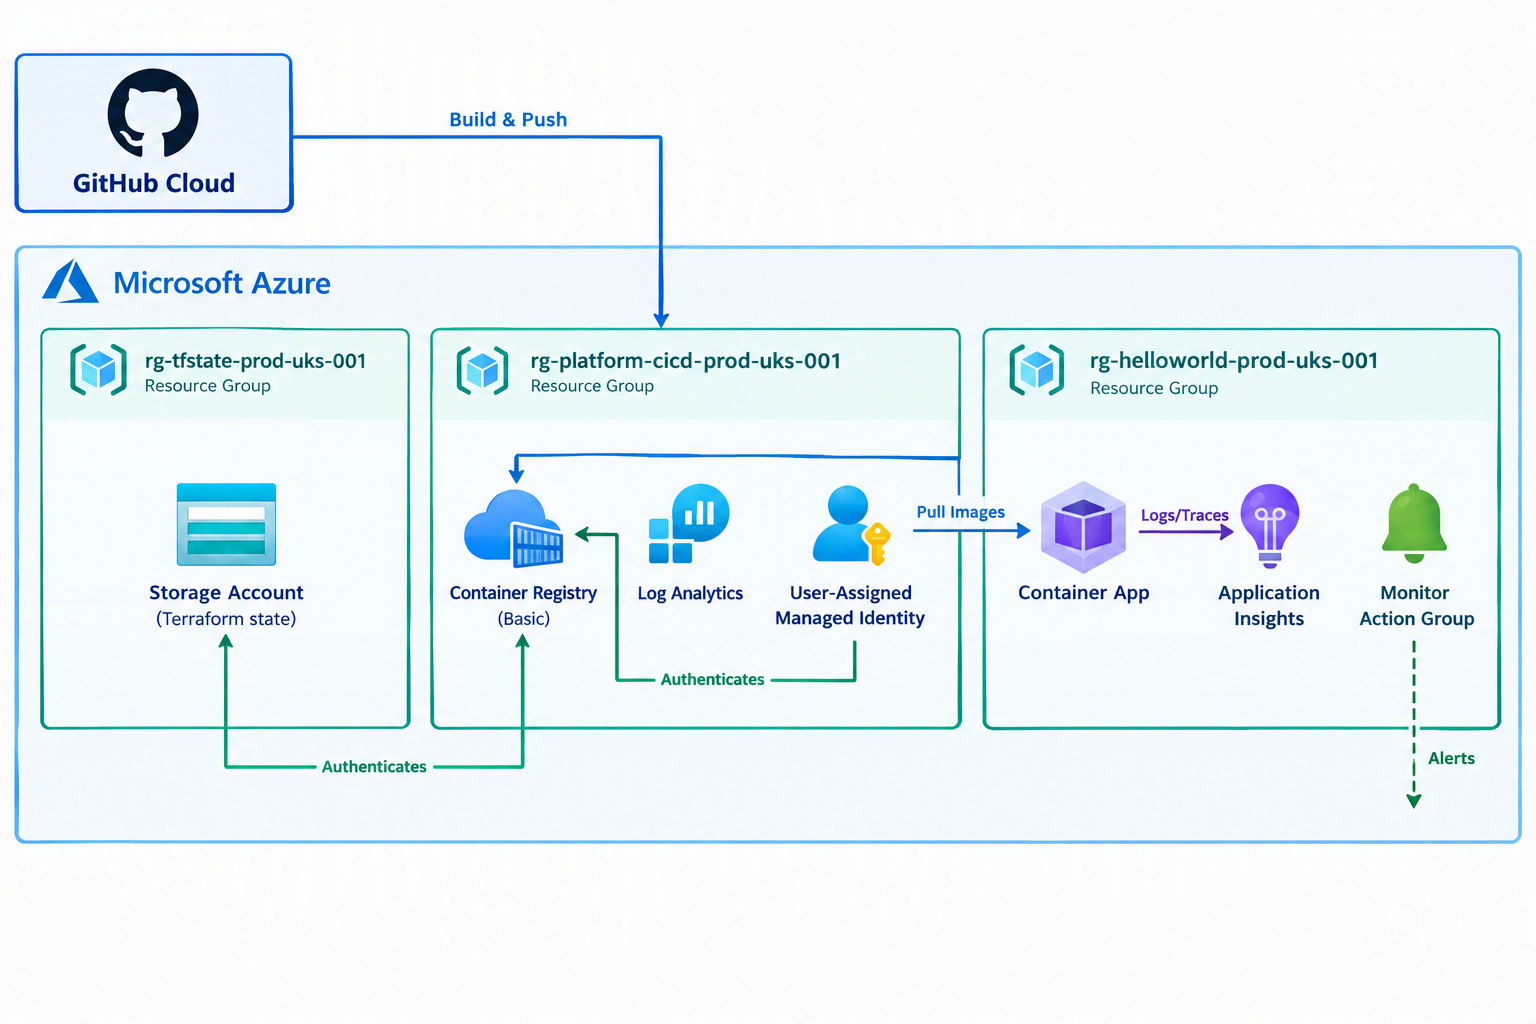
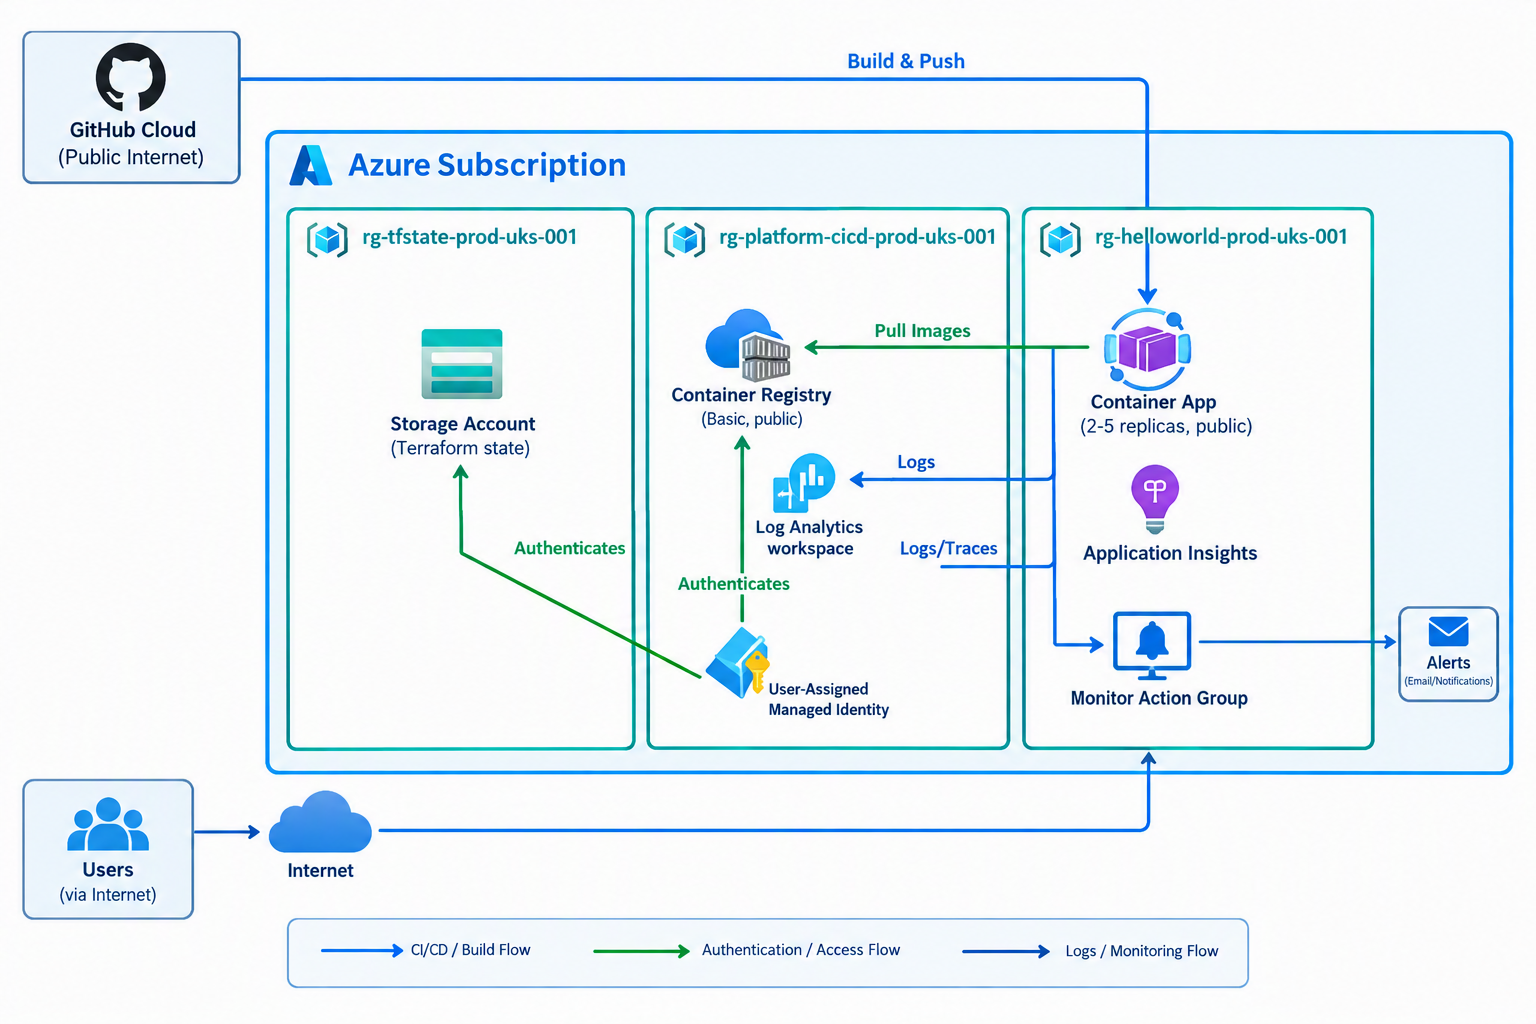
docs: tidying up diagrams and fixing arrow layout

diff --git a/README.md b/README.md
@@ -14,25 +14,12 @@ A public-facing HTTP service (`/healthz` for liveness, `/` returns a simple resp
 
 ## High-Level Architecture
 
-```
-Internet Users
-    │ HTTPS
-    ↓
-Public Container App (2-5 replicas, autoscaling)
-    ├─→ Container Registry (pulls images)
-    ├─→ Log Analytics (logs, 30-day retention)
-    ├─→ Application Insights (traces, exceptions, APM)
-    ├─→ Monitor Action Group (alerts → email)
-    └─→ Managed Identity (Azure AD auth)
-        
-GitHub Actions CI/CD
-    ├─→ Validate (format, syntax, security)
-    ├─→ Build & Push Image
-    ├─→ Scan Image (Snyk)
-    └─→ Plan & Cost Estimate (Infracost)
-        └─→ Approval Gate
-            └─→ Deploy to App via Terraform
-```
+**Demo Deployment:**
+![Demo Architecture](docs/architecture-current-demo.png)
+
+**Production Deployment:**
+![Production Architecture](docs/architecture-production.png)
+
 ## Design Decisions
 
 ### Why Container Apps Instead of Kubernetes?
@@ -524,7 +511,6 @@ curl https://$FQDN/
 ```bash
 az containerapp show --name ca-hw-prod-uks-001 --resource-group rg-helloworld-prod-uks-001 --query "properties.template.scale"
 ```
-
 ## Contributing
 
 This is a demo/learning project. The main branch is protected—changes go through PR, CI validation, and cost review.
